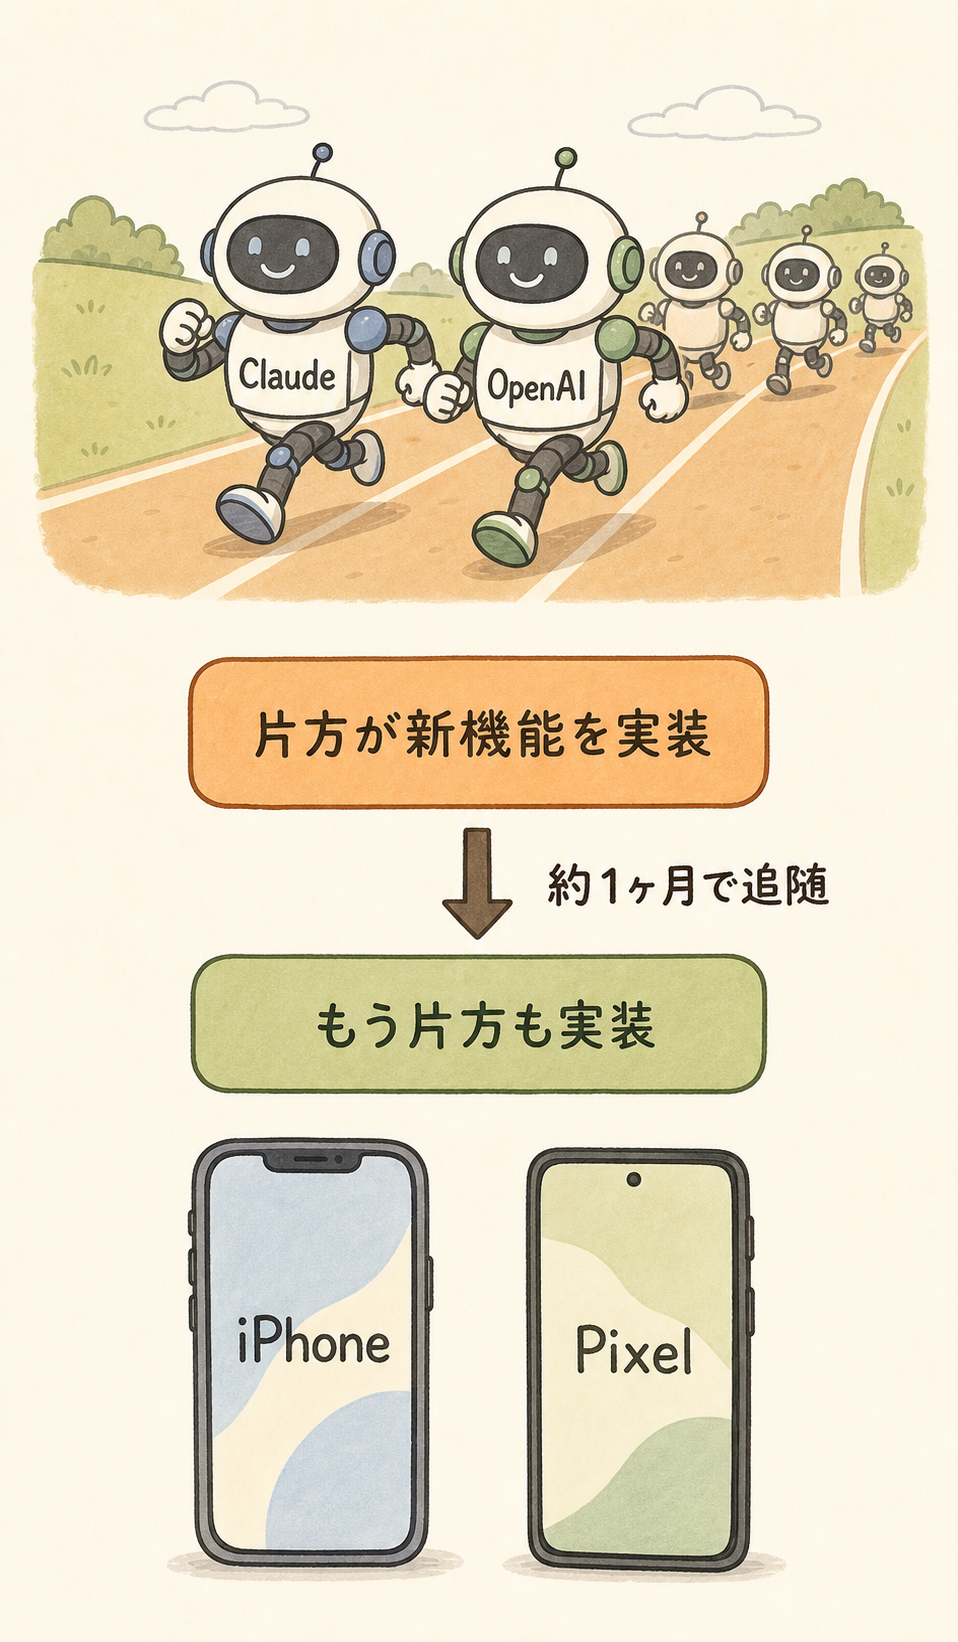
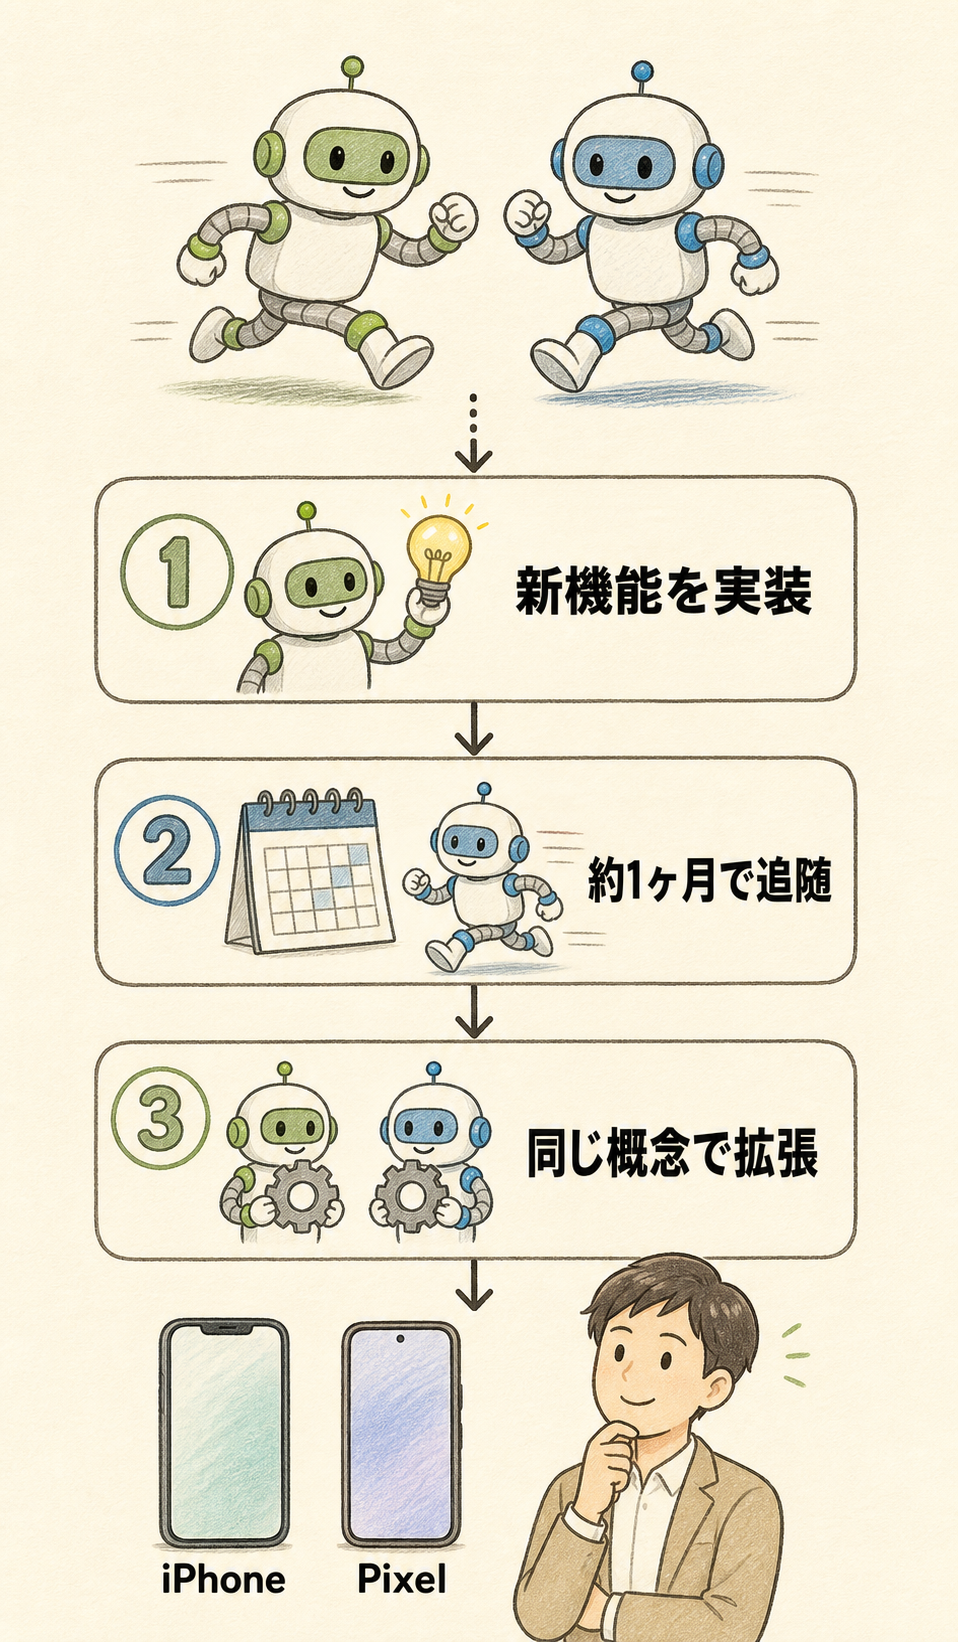
Update Marp slide and infographic skills documentation; enhance guidelines for illustrations and layout rules. Add new images for AI tool strategy presentation and refine zenshin theme CSS for improved styling and consistency.

diff --git a/themes/zenshin.css b/themes/zenshin.css
@@ -1,18 +1,24 @@
 /* @theme zenshin */
 /*
- * ZENSHIN ブランドテーマ v2
+ * ZENSHIN ブランドテーマ v2.1
  * - 配色は zenshin-hp に準拠: ブランドの黒 #0c1220 × ゴールド #c4a97d、アクセントブルー #0969da
  * - 背景は温かみのある紙色（gallery の手書き風挿絵のベージュと調和する）
  * - 見出しは 900 ウェイトで級差を大きく、アクセント色はゴールドのみに絞る
+ *   （見出し下の短いゴールドバーは v2.1 で廃止 — 生成 AI 定番の装飾に見えるため）
  * - 日本語フォント: Noto Sans JP（Web 表示は Google Fonts、PDF ビルドは CI にインストールした Noto CJK にフォールバック）
  *
  * レイアウト部品（Markdown 内に HTML で記述する。ビルドは --html 有効）:
+ *   <!-- _class: center -->                      … 結論・メッセージ主体のページを中央揃えに
+ *                                                   （箇条書き・コールアウトは左揃えを維持する）
  *   <div class="columns"> A / B </div>          … 2 カラム（<div class="columns three"> で 3 カラム）
  *   <div class="card"> ### 見出し + 本文 </div>  … ゴールドトップボーダーのカード
  *   <div class="stats">
  *     <div class="stat"><div class="num">$200</div><div class="label">説明</div></div>
  *   </div>                                       … 大きな数字の KPI タイル（横に自動で並ぶ）
- *   blockquote（> 行）                           … 「POINT」ラベル付きコールアウト
+ *   blockquote（> 行）                           … 「POINT」ラベル付きコールアウト（ゴールド）
+ *   <div class="callout good|warn|danger|info">  … 色付きコールアウト
+ *     good=GOOD(緑・良い点) / warn=CAUTION(黄・注意) / danger=WARNING(赤・危険) / info=INFO(青・補足)
+ *     ラベル文字列は data-label="..." で上書き可能
  */
 
 @import 'default';
@@ -46,7 +52,7 @@ section {
   letter-spacing: 0.02em;
 }
 
-/* 見出し: 900 ウェイトで大きく。下線ボーダーではなく短いゴールドバー */
+/* 見出し: 900 ウェイトで大きく。下線・バーなどの装飾は付けない */
 section h1 {
   font-size: 1.76em;
   font-weight: 900;
@@ -54,16 +60,6 @@ section h1 {
   color: var(--zenshin-ink);
   letter-spacing: 0.01em;
   margin-bottom: 0.55em;
-}
-
-section h1::after {
-  content: '';
-  display: block;
-  width: 64px;
-  height: 6px;
-  background: var(--zenshin-gold);
-  border-radius: 3px;
-  margin-top: 12px;
 }
 
 section h2 {
@@ -91,8 +87,10 @@ section strong {
   background: linear-gradient(transparent 62%, var(--zenshin-gold-light) 62%);
 }
 
-/* コールアウト（blockquote）: POINT ラベル付きカード */
-section blockquote {
+/* コールアウト: blockquote（> 行）は POINT（ゴールド）。
+   <div class="callout good|warn|danger|info"> で意味に応じた色バリエーション */
+section blockquote,
+section .callout {
   position: relative;
   border: 1px solid var(--zenshin-border);
   border-left: 6px solid var(--zenshin-gold);
@@ -105,7 +103,8 @@ section blockquote {
   box-shadow: 0 1px 4px rgba(12, 18, 32, 0.05);
 }
 
-section blockquote::before {
+section blockquote::before,
+section .callout::before {
   content: 'POINT';
   display: block;
   font-size: 0.58em;
@@ -113,6 +112,64 @@ section blockquote::before {
   letter-spacing: 0.22em;
   color: var(--zenshin-gold-deep);
   margin-bottom: 0.3em;
+}
+
+section .callout > p {
+  margin: 0.2em 0;
+}
+
+section .callout > ul,
+section .callout > ol {
+  margin: 0.2em 0;
+}
+
+/* 良い点・推奨（緑） */
+section .callout.good {
+  border-left-color: #2da44e;
+  background: #f3f9f2;
+}
+
+section .callout.good::before {
+  content: 'GOOD';
+  color: #1a7f37;
+}
+
+/* 注意（黄） */
+section .callout.warn {
+  border-left-color: #d4a72c;
+  background: #fdf8e7;
+}
+
+section .callout.warn::before {
+  content: 'CAUTION';
+  color: #9a6700;
+}
+
+/* 危険・非推奨（赤） */
+section .callout.danger {
+  border-left-color: #cf222e;
+  background: #fcf1f0;
+}
+
+section .callout.danger::before {
+  content: 'WARNING';
+  color: #cf222e;
+}
+
+/* 補足情報（青） */
+section .callout.info {
+  border-left-color: var(--zenshin-blue);
+  background: #eff5fd;
+}
+
+section .callout.info::before {
+  content: 'INFO';
+  color: var(--zenshin-blue);
+}
+
+/* ラベル文字列の上書き（例: <div class="callout info" data-label="MEMO">） */
+section .callout[data-label]::before {
+  content: attr(data-label);
 }
 
 /* コード */
@@ -137,11 +194,11 @@ section pre code {
   padding: 0;
 }
 
-/* テーブル: 軽いヘッダー + ゼブラ */
+/* テーブル: 軽いヘッダー + ゼブラ。直後のテキストが詰まって見えないよう下に余白を取る */
 section table {
   font-size: 0.9em;
   border-collapse: collapse;
-  margin: 0.3em auto;
+  margin: 0.3em auto 1em;
 }
 
 section table th {
@@ -191,6 +248,23 @@ section:not(.lead) p img:not(.emoji) {
 }
 
 /* ---- レイアウト部品 ---------------------------------------------------- */
+
+/* 中央揃えページ（<!-- _class: center -->）: 結論・メッセージ主体のページ用。
+   箇条書きは可読性のため左揃えを維持する（ブロックごと中央に寄せる） */
+section.center {
+  text-align: center;
+}
+
+section.center ul,
+section.center ol {
+  display: inline-block;
+  text-align: left;
+}
+
+section.center blockquote,
+section.center .callout {
+  text-align: left;
+}
 
 section .columns {
   display: grid;
@@ -276,20 +350,17 @@ section.lead {
 }
 
 section.lead h1 {
-  font-size: 2.2em;
+  font-size: 2.6em;
   color: #ffffff;
   line-height: 1.35;
 }
 
-section.lead h1::after {
-  width: 3em;
-  height: 5px;
-  margin: 0.45em auto 0;
-}
-
+/* サブタイトル: 表紙の「読ませたい一文」なので本文よりしっかり大きく */
 section.lead h2 {
+  font-size: 1.5em;
+  line-height: 1.5;
   color: #d7dde6;
-  font-weight: 500;
+  font-weight: 700;
 }
 
 section.lead p,

diff --git a/.agents/skills/marp-slide/SKILL.md b/.agents/skills/marp-slide/SKILL.md
@@ -245,4 +245,10 @@ Before delivering slides, verify:
 - 公開デッキ（`slides/<YYYY-MM-DD>-<slug>.md`）は **ZENSHIN ブランドテーマ（`theme: zenshin` / `themes/zenshin.css`）を使う**。本スキル同梱の 7 テーマ・テンプレートは社外公開デッキには適用しない（ブランド統一のため。社内ラフや実験用は自由）
 - 本スキルは主に **`references/` 配下（Marp 構文・画像レイアウトパターン・ベストプラクティス・テーマ CSS 設計）の参照資料**として使う
 - 出力先はこのリポジトリの規約に従う: `/mnt/user-data/outputs/` ではなく `slides/` に置き、`bun run build` → `dist/slides/*.pdf` で確認する
-- 挿絵の生成・差し込みは姉妹スキル `gallery-image-gen` / `slide-infographic` を使う
+- 挿絵の生成・差し込みは姉妹スキル `gallery-image-gen` / `slide-infographic` を使う。**言葉だけでは分かりにくい概念のページには挿絵を積極的に入れる**（この会社の好みは「挿絵多め」）
+- **zenshin テーマ v2.1 の書き方ルール**（テーマ側の部品を使い、デッキ内に自前 CSS を書かない）:
+  - **結論・メッセージ主体のページは `<!-- _class: center -->` で中央揃え**にする（「結論から」「まとめ」「推奨プラン」など）。箇条書き中心のページは左揃えのまま。center ページ内でも箇条書き・コールアウトは自動で左揃えが保たれる
+  - **見出しに下線・短いバーなどの装飾を付けない**（テーマからも v2.1 で廃止済み。生成 AI スライドの定番装飾に見えるため）
+  - **コールアウトを意味に応じて色分けして積極的に使う**: `>`（blockquote）= POINT（ゴールド・要点）／`<div class="callout good">` = GOOD（緑・良い点）／`.warn` = CAUTION（黄・注意）／`.danger` = WARNING（赤・危険）／`.info` = INFO（青・補足）。div 内に Markdown を書くときは開始タグ・終了タグの前後に空行を挟む。ラベル文字列は `data-label="..."` で上書き可
+  - 表の直後の余白はテーマが確保する（`section table` に margin-bottom あり。手動の空行調整は不要）
+  - **「A → B」「用語 — 説明」を 1 行に詰めた箇条書きにしない**: 対応関係の列挙（例:「コード → 文書作成」）は**表**にし、用語＋説明の列挙（例:「スキル — 特定業務の…」）は**表**か **2 階層の箇条書き**（親 = 用語、子 = 説明）に分解する。1 行詰め込みは折り返しで読みにくくなる

diff --git a/.agents/skills/slide-infographic/SKILL.md b/.agents/skills/slide-infographic/SKILL.md
@@ -26,7 +26,7 @@ description: >
 ## 全体ワークフロー
 
 1. **対象デッキの特定**: `slides/<YYYY-MM-DD>-<slug>.md` をユーザーから受け取る(IDE で開いているファイル・直前に作ったデッキが文脈で明らかならそれ)
-2. **ページ構成の把握**: `---` 区切りでページを数える。**全ページに入れない**。lead の章扉・表紙・まとめは原則スキップし、「文字が多く、図があると理解が早くなる本文ページ」に絞って提案する(目安: 全体の 3〜6 ページ)
+2. **ページ構成の把握**: `---` 区切りでページを数える。**全ページに入れない**。lead の章扉・表紙・まとめは原則スキップし、「文字が多く、図があると理解が早くなる本文ページ」に絞って提案する。**言葉だけでは分かりにくい概念のページには積極的に入れる**（目安: 本文ページの 3〜5 割。ユーザーの好みは「挿絵多め」）
 3. **画像プランの提示**: 「どのページに・どのレイアウトで・何を描くか」の一覧を短く出して合意を取る
 4. **ページごとにプロンプトを起こす**: 下記【スタイル定型】＋【そのページの正確なテキスト】。箇条書き・表・ラベルは**本文から逐語コピーして文字列で渡す**
 5. **1枚試作 → 合意 → 残りを生成**: いきなり全ページ作らない。生成は gallery-image-gen の「画像生成」に従い、1 枚ごとに生成 → 目的のファイル名へコピーを繰り返す
@@ -77,7 +77,7 @@ Markdown 資料と違い、スライドは領域超過分が**静かに見切れ
 
 ```
 【スタイル】手書き風のやさしいフラットイラスト。少しデフォルメした親しみやすいキャラ（にっこり笑顔）。可愛くしすぎず、画面をごちゃごちゃさせない。落ち着いた配色で「情報が整理されて見やすい」ことを最優先。システム・Botは丸くフレンドリーに。背景はベージュの紙(#f7f2e7)。書類・スマホ・PCなどの小物もシンプルにデフォルメ。
-【タイトル見出し】（ページ内の図のみ）上部にしっかりした「見出し」を置く：左に小さな丸い色アイコン＋セクション番号バッジ（例：01）、その右に大きな太字タイトル、タイトル文字の下にマーカーで引いたような太い色帯（ハイライト）を敷く。本文よりはっきり大きく、ひと目でタイトルと分かるデザインにする。※ bg right 用の縦長画像ではこの行を使わず、代わりに「タイトルは入れない。画像の上端と下端は各10%をベージュの余白にして、文字やキャラを端に置かない」と指示する
+【タイトル見出し】（ページ内の図のみ）上部にしっかりした「見出し」を置く：左に小さな丸い色アイコン＋セクション番号バッジ（例：01）、その右に大きな太字タイトル、タイトル文字の下にマーカーで引いたような太い色帯（ハイライト）を敷く。本文よりはっきり大きく、ひと目でタイトルと分かるデザインにする。※ bg right 用の縦長画像ではこの行を使わず、代わりに「タイトルは入れない。角丸の情報カード・帯を縦に2〜3段重ね、点線や矢印でつないで上から下へ視線が流れる構成にする。画像の上端と下端は各10%をベージュの余白にして、文字やキャラを端に置かない」と指示する
 【フロー】手順・流れは大きな番号＋矢印で順番が一目で追えるレイアウトにする。役割・系統が分かれる場合は色で区別し、ラベルを添える。
 【情報量】多めにする。本文の見出し・補足・表・ラベルをしっかり文字で入れる。文字は太めで読みやすく、誤字なく正確に整理して配置する。
 【禁止】星・鉛筆・絵筆・水彩の飛び散り、本文に関係ない動物などのにぎやかし装飾は描かない。リアルすぎる人物や固い事務的な雰囲気は避ける。
@@ -91,6 +91,8 @@ Markdown 資料と違い、スライドは領域超過分が**静かに見切れ
 
 - **文字は必ず正確な文字列で渡す**。「○○について」のような曖昧指示だと gpt-image が創作・誤字する
 - **ページ内の図ではタイトルの「見出し化」指定を入れる**（アイコン＋番号バッジ＋マーカー下線）。**`bg right` 用の縦長画像ではタイトルを入れない**（スライド側に見出しがあり、上端はトリミングで切れる。画像側は絵とラベル中心に）
+- **【フロー】【情報量】は `bg right` 用の縦長でも省略しない**。タイトルと一緒にこれらまで削ると「マスコット1体＋ラベル数個」のスカスカな“いかにも AI が作った風”のポスターになる（2026-07 に全枚再生成になった失敗実績）。縦長では情報カードの縦積み＋点線・矢印コネクタで密度を出す
+- **人物キャラ（担当者・利用者などデフォルメしたにっこり人物）も入れる**。ロボットだけだと AI 感が強まる。トーンの基準は zenshin-strategy リポジトリの実例（`projects/*/docs/assets/*/` の PNG 群。例: unitika-citizen-dev-rpa の `04-tool-roles.png`、inaba-denki の `02-alignment-map.png`）——あの「人物＋カード＋点線＋手描きの線」の密度に合わせる
 - **可愛さは中庸**。「絵本風・ちびキャラ全開」にすると情報が減って軽くなる
 - **装飾の禁止を明示**。指定しないと星・鉛筆・水彩・無関係な動物が散る
 - **カタカナ長音の直後に漢数字「一」が来る語は崩れる**（「マスタ一元化」→「マスター元化」）。表記を変えて回避するか、【文字の厳守】行で正誤を明示する
@@ -98,7 +100,7 @@ Markdown 資料と違い、スライドは領域超過分が**静かに見切れ
 
 ### イラスト品質の合格基準（必須・md-infographic と共通）
 
-成果物は「読みやすい図表」ではなく**手書き風イラスト入りインフォグラフィック**。文字精度を理由に HTML/CSS/Playwright/SVG で図表画像を組むのは禁止。各画像には、その資料のドメインに合った小物・キャラ（人物 / Bot・システム / PC・スマホ / 書類など）を**3 種類以上**、目に見えるイラストとして入れる。角丸カードと矢印だけの業務フロー図・スライド風に整えただけの画像は、文字が正確でも不合格。1枚試作の確認では文字の正確さに加えて**小物・キャラが十分か・図表だけになっていないか**を見る。最終レビューでは全画像を順に開き、「同一トーンの手書き風イラスト群」に見えるか確認する。
+成果物は「読みやすい図表」ではなく**手書き風イラスト入りインフォグラフィック**。文字精度を理由に HTML/CSS/Playwright/SVG で図表画像を組むのは禁止。各画像には、その資料のドメインに合った小物・キャラ（人物 / Bot・システム / PC・スマホ / 書類など）を**3 種類以上**、目に見えるイラストとして入れる。角丸カードと矢印だけの業務フロー図・スライド風に整えただけの画像も、**マスコット1体＋ラベル数個だけのスカスカな縦長ポスター**も、文字が正確でも不合格。1枚試作の確認では文字の正確さに加えて**小物・キャラが十分か・図表だけになっていないか**を見る。最終レビューでは全画像を順に開き、「同一トーンの手書き風イラスト群」に見えるか確認する。
 
 ## やらないこと / 注意
 

diff --git a/.claude/skills/marp-slide/SKILL.md b/.claude/skills/marp-slide/SKILL.md
@@ -245,4 +245,10 @@ Before delivering slides, verify:
 - 公開デッキ（`slides/<YYYY-MM-DD>-<slug>.md`）は **ZENSHIN ブランドテーマ（`theme: zenshin` / `themes/zenshin.css`）を使う**。本スキル同梱の 7 テーマ・テンプレートは社外公開デッキには適用しない（ブランド統一のため。社内ラフや実験用は自由）
 - 本スキルは主に **`references/` 配下（Marp 構文・画像レイアウトパターン・ベストプラクティス・テーマ CSS 設計）の参照資料**として使う
 - 出力先はこのリポジトリの規約に従う: `/mnt/user-data/outputs/` ではなく `slides/` に置き、`bun run build` → `dist/slides/*.pdf` で確認する
-- 挿絵の生成・差し込みは姉妹スキル `gallery-image-gen` / `slide-infographic` を使う
+- 挿絵の生成・差し込みは姉妹スキル `gallery-image-gen` / `slide-infographic` を使う。**言葉だけでは分かりにくい概念のページには挿絵を積極的に入れる**（この会社の好みは「挿絵多め」）
+- **zenshin テーマ v2.1 の書き方ルール**（テーマ側の部品を使い、デッキ内に自前 CSS を書かない）:
+  - **結論・メッセージ主体のページは `<!-- _class: center -->` で中央揃え**にする（「結論から」「まとめ」「推奨プラン」など）。箇条書き中心のページは左揃えのまま。center ページ内でも箇条書き・コールアウトは自動で左揃えが保たれる
+  - **見出しに下線・短いバーなどの装飾を付けない**（テーマからも v2.1 で廃止済み。生成 AI スライドの定番装飾に見えるため）
+  - **コールアウトを意味に応じて色分けして積極的に使う**: `>`（blockquote）= POINT（ゴールド・要点）／`<div class="callout good">` = GOOD（緑・良い点）／`.warn` = CAUTION（黄・注意）／`.danger` = WARNING（赤・危険）／`.info` = INFO（青・補足）。div 内に Markdown を書くときは開始タグ・終了タグの前後に空行を挟む。ラベル文字列は `data-label="..."` で上書き可
+  - 表の直後の余白はテーマが確保する（`section table` に margin-bottom あり。手動の空行調整は不要）
+  - **「A → B」「用語 — 説明」を 1 行に詰めた箇条書きにしない**: 対応関係の列挙（例:「コード → 文書作成」）は**表**にし、用語＋説明の列挙（例:「スキル — 特定業務の…」）は**表**か **2 階層の箇条書き**（親 = 用語、子 = 説明）に分解する。1 行詰め込みは折り返しで読みにくくなる

diff --git a/.claude/skills/slide-infographic/SKILL.md b/.claude/skills/slide-infographic/SKILL.md
@@ -26,7 +26,7 @@ description: >
 ## 全体ワークフロー
 
 1. **対象デッキの特定**: `slides/<YYYY-MM-DD>-<slug>.md` をユーザーから受け取る(IDE で開いているファイル・直前に作ったデッキが文脈で明らかならそれ)
-2. **ページ構成の把握**: `---` 区切りでページを数える。**全ページに入れない**。lead の章扉・表紙・まとめは原則スキップし、「文字が多く、図があると理解が早くなる本文ページ」に絞って提案する(目安: 全体の 3〜6 ページ)
+2. **ページ構成の把握**: `---` 区切りでページを数える。**全ページに入れない**。lead の章扉・表紙・まとめは原則スキップし、「文字が多く、図があると理解が早くなる本文ページ」に絞って提案する。**言葉だけでは分かりにくい概念のページには積極的に入れる**（目安: 本文ページの 3〜5 割。ユーザーの好みは「挿絵多め」）
 3. **画像プランの提示**: 「どのページに・どのレイアウトで・何を描くか」の一覧を短く出して合意を取る
 4. **ページごとにプロンプトを起こす**: 下記【スタイル定型】＋【そのページの正確なテキスト】。箇条書き・表・ラベルは**本文から逐語コピーして文字列で渡す**
 5. **1枚試作 → 合意 → 残りを並列一括生成**: いきなり全ページ作らない。生成手順・並列化・ウォッチドッグは gallery-image-gen の「画像生成」「複数枚の並列一括生成」に従う
@@ -78,7 +78,7 @@ Markdown 資料と違い、スライドは領域超過分が**静かに見切れ
 ```
 組み込みの image_gen ツールを直接使って画像を1枚だけ生成してください。APIキーやスクリプト作成は不要です。OpenAI Images APIを直接叩かないでください。
 【スタイル】手書き風のやさしいフラットイラスト。少しデフォルメした親しみやすいキャラ（にっこり笑顔）。可愛くしすぎず、画面をごちゃごちゃさせない。落ち着いた配色で「情報が整理されて見やすい」ことを最優先。システム・Botは丸くフレンドリーに。背景はベージュの紙(#f7f2e7)。書類・スマホ・PCなどの小物もシンプルにデフォルメ。
-【タイトル見出し】（ページ内の図のみ）上部にしっかりした「見出し」を置く：左に小さな丸い色アイコン＋セクション番号バッジ（例：01）、その右に大きな太字タイトル、タイトル文字の下にマーカーで引いたような太い色帯（ハイライト）を敷く。本文よりはっきり大きく、ひと目でタイトルと分かるデザインにする。※ bg right 用の縦長画像ではこの行を使わず、代わりに「タイトルは入れない。画像の上端と下端は各10%をベージュの余白にして、文字やキャラを端に置かない」と指示する
+【タイトル見出し】（ページ内の図のみ）上部にしっかりした「見出し」を置く：左に小さな丸い色アイコン＋セクション番号バッジ（例：01）、その右に大きな太字タイトル、タイトル文字の下にマーカーで引いたような太い色帯（ハイライト）を敷く。本文よりはっきり大きく、ひと目でタイトルと分かるデザインにする。※ bg right 用の縦長画像ではこの行を使わず、代わりに「タイトルは入れない。角丸の情報カード・帯を縦に2〜3段重ね、点線や矢印でつないで上から下へ視線が流れる構成にする。画像の上端と下端は各10%をベージュの余白にして、文字やキャラを端に置かない」と指示する
 【フロー】手順・流れは大きな番号＋矢印で順番が一目で追えるレイアウトにする。役割・系統が分かれる場合は色で区別し、ラベルを添える。
 【情報量】多めにする。本文の見出し・補足・表・ラベルをしっかり文字で入れる。文字は太めで読みやすく、誤字なく正確に整理して配置する。
 【禁止】星・鉛筆・絵筆・水彩の飛び散り、本文に関係ない動物などのにぎやかし装飾は描かない。リアルすぎる人物や固い事務的な雰囲気は避ける。
@@ -92,6 +92,8 @@ Markdown 資料と違い、スライドは領域超過分が**静かに見切れ
 
 - **文字は必ず正確な文字列で渡す**。「○○について」のような曖昧指示だと gpt-image が創作・誤字する
 - **ページ内の図ではタイトルの「見出し化」指定を入れる**（アイコン＋番号バッジ＋マーカー下線）。**`bg right` 用の縦長画像ではタイトルを入れない**（スライド側に見出しがあり、上端はトリミングで切れる。画像側は絵とラベル中心に）
+- **【フロー】【情報量】は `bg right` 用の縦長でも省略しない**。タイトルと一緒にこれらまで削ると「マスコット1体＋ラベル数個」のスカスカな“いかにも AI が作った風”のポスターになる（2026-07 に全枚再生成になった失敗実績）。縦長では情報カードの縦積み＋点線・矢印コネクタで密度を出す
+- **人物キャラ（担当者・利用者などデフォルメしたにっこり人物）も入れる**。ロボットだけだと AI 感が強まる。トーンの基準は zenshin-strategy リポジトリの実例（`projects/*/docs/assets/*/` の PNG 群。例: unitika-citizen-dev-rpa の `04-tool-roles.png`、inaba-denki の `02-alignment-map.png`）——あの「人物＋カード＋点線＋手描きの線」の密度に合わせる
 - **可愛さは中庸**。「絵本風・ちびキャラ全開」にすると情報が減って軽くなる
 - **装飾の禁止を明示**。指定しないと星・鉛筆・水彩・無関係な動物が散る
 - **カタカナ長音の直後に漢数字「一」が来る語は崩れる**（「マスタ一元化」→「マスター元化」）。表記を変えて回避するか、【文字の厳守】行で正誤を明示する
@@ -99,7 +101,7 @@ Markdown 資料と違い、スライドは領域超過分が**静かに見切れ
 
 ### イラスト品質の合格基準（必須・md-infographic と共通）
 
-成果物は「読みやすい図表」ではなく**手書き風イラスト入りインフォグラフィック**。文字精度を理由に HTML/CSS/Playwright/SVG で図表画像を組むのは禁止。各画像には、その資料のドメインに合った小物・キャラ（人物 / Bot・システム / PC・スマホ / 書類など）を**3 種類以上**、目に見えるイラストとして入れる。角丸カードと矢印だけの業務フロー図・スライド風に整えただけの画像は、文字が正確でも不合格。1枚試作の確認では文字の正確さに加えて**小物・キャラが十分か・図表だけになっていないか**を見る。最終レビューでは全画像を順に `Read` で開き、「同一トーンの手書き風イラスト群」に見えるか確認する。
+成果物は「読みやすい図表」ではなく**手書き風イラスト入りインフォグラフィック**。文字精度を理由に HTML/CSS/Playwright/SVG で図表画像を組むのは禁止。各画像には、その資料のドメインに合った小物・キャラ（人物 / Bot・システム / PC・スマホ / 書類など）を**3 種類以上**、目に見えるイラストとして入れる。角丸カードと矢印だけの業務フロー図・スライド風に整えただけの画像も、**マスコット1体＋ラベル数個だけのスカスカな縦長ポスター**も、文字が正確でも不合格。1枚試作の確認では文字の正確さに加えて**小物・キャラが十分か・図表だけになっていないか**を見る。最終レビューでは全画像を順に `Read` で開き、「同一トーンの手書き風イラスト群」に見えるか確認する。
 
 ## やらないこと / 注意
 